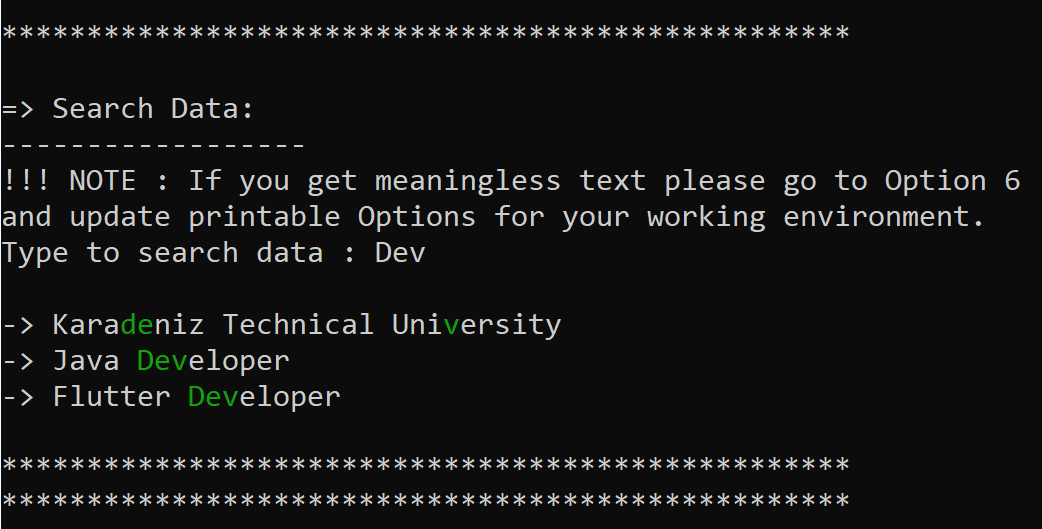
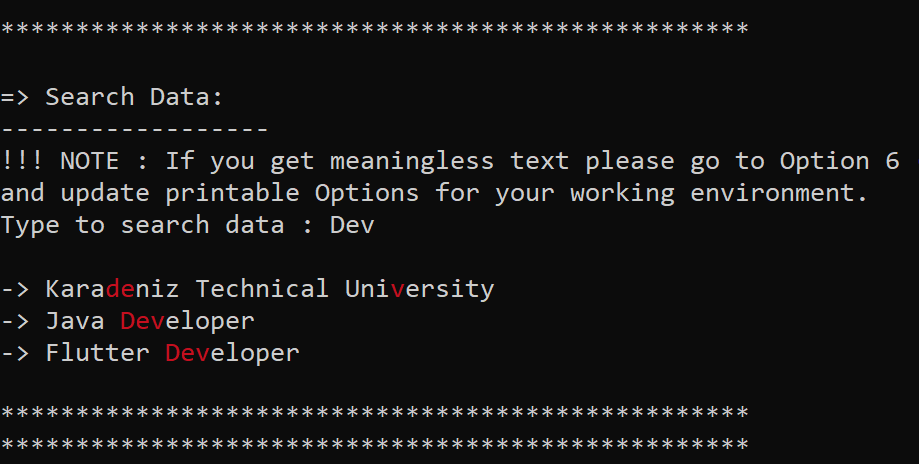
CMD printing color is refactored to Red. Images are refactored. Docker run image command is added to ReadMe.md

diff --git a/src/main/java/printable/concrete/PrintableServiceImplColorfulCMD.java b/src/main/java/printable/concrete/PrintableServiceImplColorfulCMD.java
@@ -4,6 +4,7 @@ import org.fusesource.jansi.AnsiConsole;
 import printable.abstracts.PrintableService;
 
 import static org.fusesource.jansi.Ansi.Color.GREEN;
+import static org.fusesource.jansi.Ansi.Color.RED;
 import static org.fusesource.jansi.Ansi.ansi;
 
 public class PrintableServiceImplColorfulCMD implements PrintableService {
@@ -22,6 +23,6 @@ public class PrintableServiceImplColorfulCMD implements PrintableService {
 
     @Override
     public String getColorfulText(String msg) {
-        return ansi().fg(GREEN).a(msg).reset() + "";
+        return ansi().fg(RED).a(msg).reset() + "";
     }
 }
